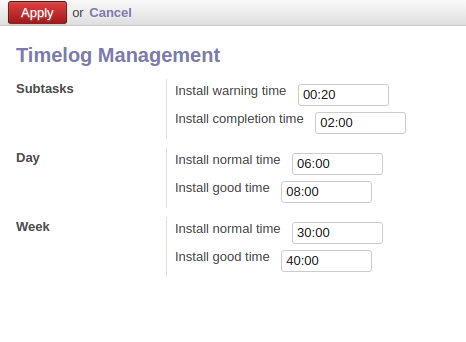
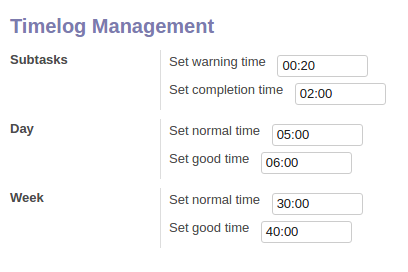
[DOC] added doc

diff --git a/project_timelog/static/description/index.html b/project_timelog/static/description/index.html
@@ -4,7 +4,7 @@
         <h3 class="oe_slogan">Tracking Workflow</h3>
         <div class="oe_span6">
             <div class="oe_demo oe_picture oe_screenshot">
-                <a href="http://runbot.it-projects.info/">
+                <a href="http://runbot.it-projects.info/demo/misc-addons/8.0">
                     <img src="00.png" alt="Online Demo">
                 </a>
                 <div class="oe_demo_footer oe_centeralign">Online Demo</div>
@@ -25,8 +25,10 @@
             <p class='oe_mt32'>
                 To install the module fo the following:
                 <ul>
-                    <li>Install the module "Project timelog"</li>
-                    <li>Open menu "settings"</li>
+                    <li><a href="https://odoo-development.readthedocs.io/en/latest/odoo/usage/install-module.html">Install </a>this module in a usual way</li>
+                </ul>
+                Settings
+                <ul><li>Open menu "settings"</li>
                     <li>Open "timelog" in section of Configuration</li>
                     <li>Choose necessary configuration settings and press "apply"</li>
                 </ul>
@@ -46,12 +48,12 @@
         </div>
         <div class="oe_span6">
             <ul class='oe_mt32'>
-                <li>"Install warning time" - is warning time. It must warn a user with audio signal about when it stops (in what time it is stops).</li>
-                <li>"Install completion time" - is a limit on timer work for subtask, it stops after achieving this time.</li>
-                <li>"Install normal time" - is warning time for the number of worked hours for current day (a set number of hours).</li>
-                <li>"Install good time" - is warning time for the number of worked hours for current day ( more than a set number of hours).</li>
-                <li>"Install normal time" - is warning time for the number of worked hours for current week (a set number of hours).</li>
-                <li>"Install good time" - is warning time for the number of worked hours for current week ( more than a set number of hours).</li>
+                <li>"Set warning time" - is warning time. It must warn a user with audio signal about when timer it stops (in what time it is stops).</li>
+                <li>"Set completion time" - is a limit on timer work for subtask, it stops after achieving this time.</li>
+                <li>"Set normal time" - is warning time for the number of worked hours for current day (a set number of hours).</li>
+                <li>"Set good time" - is warning time for the number of worked hours for current day ( more than a set number of hours).</li>
+                <li>"Set normal time" - is warning time for the number of worked hours for current week (a set number of hours).</li>
+                <li>"Set good time" - is warning time for the number of worked hours for current week ( more than a set number of hours).</li>
             </ul>
         </div>
     </div>
@@ -62,8 +64,7 @@
         <h2 class="oe_slogan">Usage</h2>
         <div class="oe_span12">
             <p class='oe_mt32'>
-                After the installation of the module, "time" will appear in the upper right corner. This means than you need to set timer configurations. After its setting, the upper right corner will show "00:00:00 00:00 00:00 00:00".
-            </p>
+                After the installation of the module, the upper right corner will show "00:00:00 00:00 00:00 00:00".            </p>
             <p>
                 The timer allows to immobilize the user’s time of working on subtask in menu "Project->Task", helps to follow the volume of work during day and week.
             </p>
@@ -75,7 +76,7 @@
         </div>
         <div class="oe_span6">
             <p class='oe_mt32'>
-                The result of timer work in written in menu "Project -> Timelog" in section "My timelog". This section shows logs of current users only and explains which task is for subtask, when the timer was launched and stopped, how long it worked and in what state was task. There is a "time correction" which allows to correct the time (see more in section Correction of time). Manager has the access "timelog" in which logs of all people are seen.
+                The result of timer work in written in menu "Project -> Timelog" in section "My timelog". This section shows logs of current users only and explains which task is for subtask, when the timer was launched and stopped, how long it worked and in what state was task. There is a "time correction" which allows to correct the time (see more in section Correction of time). Manager has the access "timelog" in which logs of all users are seen.
             </p>
         </div>
     </div>
@@ -86,7 +87,7 @@
         <h2 class="oe_slogan">Start timer</h2>
         <div class="oe_span6">
             <p class='oe_mt32'>
-                While working you need to create a new subtask in page with current task. Press "play" to start the timer. Press "stop" to stop it. After its stopping a general time appears in above the subtask in "timeSpent".
+                While working you need to create a new subtask in page with current task. Press "play" to start the timer. Press "stop" to stop it. After its stopping a general time appears in above the subtask in "Time Spent".
             </p>
         </div>
         <div class="oe_span6">
@@ -101,15 +102,13 @@
                 If the subtask was created in one state of task, then timer for this subtask cannot be launched in other state of current task.
             </p>
             <p>
-                If timer was launched in one state and state of task has changed while working, then timer automatically stops and creates a new task with the same name.
-            </p>
+                If timer was launched in one state of task and state of task has changed while working, then timer automatically stops and creates a new task with the same name.            </p>
         </div>
     </div>
     <div class="oe_row">
         <div class="oe_span12">
             <p class='oe_mt32'>
-                Checking user’s activity is occurs due to his status in chat. Thus, timer automatically stops, if user is "offline" and there is no internet connection. If new connection appears you need to restart the timer. If timer is stopped user will hear a audio sound.
-            </p>
+                Checking user’s activity is occurs due to his status in chat. Thus, timer automatically stops, if user is "offline" or there is no internet connection. If new connection appears you need to restart the timer. If timer is stopped user will hear a audio signal.            </p>
             <p>
                 If there are subtasks with logs of another day, then subtask is unavailable for user. User can start subtasks in which in "Done by" is stated  user’s name.
             </p>
@@ -149,7 +148,7 @@
         <h2 class="oe_slogan">Time correction</h2>
         <div class="oe_span6">
             <p class='oe_mt32'>
-                If user opened timer occasionally, delete all the unnecessary time with "Time correction". Fo to My timelog and press log which contains a mistake to change working hours. Press "edit" and "time correction" will be available for editing. User can only reduce time and manager can both reduce it or increase it. If user does not put "-" it will be put automatically.
+                If user opened timer occasionally, delete all the unnecessary time with "Time correction". Go to "My timelog" and press log which contains a mistake to change working hours. Press "edit" and "time correction" will be available for editing. User can only reduce time and manager can both reduce it or increase it. If user does not put "-" it will be put automatically.
             </p>
         </div>
         <div class="oe_span6">
@@ -166,7 +165,7 @@
         </div>
         <div class="oe_span6">
             <p class='oe_mt32'>
-                In case of user should immediately goes to a new task in "Stopline", must specify the date and time up to which the user can work. When reaching it he cannot add timelogs to the current task, till Stopline will be changed or deleted. "Stopline" used in difficult tasks and can be edited only by manager. When reaching to Stopline timer changes to orange, and appears the signal. (as in approaching to 2 hours in subtask).
+                In case of user should immediately goes to a new task in "Stopline", must specify the date and time up to which the user can work. When reaching it he cannot add timelogs to the current task, till Stopline will be changed or deleted. "Stopline" used in difficult tasks and can be edited only by manager. When reaching to Stopline timer changes to orange, and appears the signal.
             </p>
         </div>
     </div>

diff --git a/project_timelog/__openerp__.py b/project_timelog/__openerp__.py
@@ -1,13 +1,15 @@
 # -*- coding: utf-8 -*-
 {
     "name": """Project timelog""",
-    "summary": """Time log for project""",
+    "summary": """Timelogs for project""",
     "category": "Project",
     "version": "1.0.0",
 
     "author": "IT-Projects LLC, Dinar Gabbasov",
     'website': "https://twitter.com/gabbasov_dinar",
     "license": "GPL-3",
+    # "price": ,
+    # "currency": "EUR",
 
     "depends": [
         "bus",

diff --git a/project_timelog/doc/index.rst b/project_timelog/doc/index.rst
@@ -5,10 +5,7 @@
 Installation
 ============
 
-* Set module ``Project timelog``.
-* Open menu ``setting``.
-* Open ``timelog`` in Cofiguration section.
-* Choose necessary configuration settings and press ``apply``.
+* `Install <https://odoo-development.readthedocs.io/en/latest/odoo/usage/install-module.html>`__ this module in a usual way
 
 Usage
 =====
@@ -28,7 +25,7 @@ How to see results
 
 The timer’s work.
 
-* Click to first timer to start it. Press twice to stop it.
+* Click to first timer to start it. Click again to stop it.
 * Click the second timer to open the page with the current task.
 * Click the third timer to open Logs page for current day.
 * Click the fourth to open Logs page for current week.
@@ -45,4 +42,3 @@ Note
 ====
 
 * To use the module, you need to be sure that your odoo instance support longpolling, i.e. Instant Messaging works. Read more about how to use the `longpolling  <https://odoo-development.readthedocs.io/en/latest/admin/longpolling.html>`_
-* While doing reinstallation of module after its removal clear browser data.

diff --git a/project_timelog/README.rst b/project_timelog/README.rst
@@ -18,7 +18,7 @@ Sponsors
 Further information
 ===================
 
-Demo: http://runbot.it-projects.info/
+Demo: http://runbot.it-projects.info/demo/misc-addons/8.0
 
 HTML Description: https://apps.odoo.com/apps/modules/8.0/project_timelog/
 

diff --git a/project_timelog/doc/changelog.rst b/project_timelog/doc/changelog.rst
@@ -1,5 +1,7 @@
-Changelog
-=========
+.. _changelog:
+
+Updates
+=======
 
 `1.0.0`
 -------
